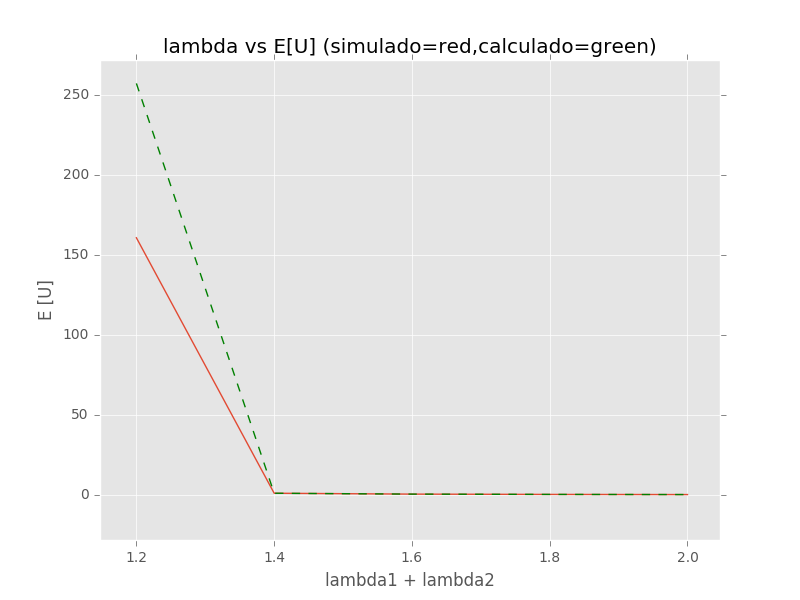
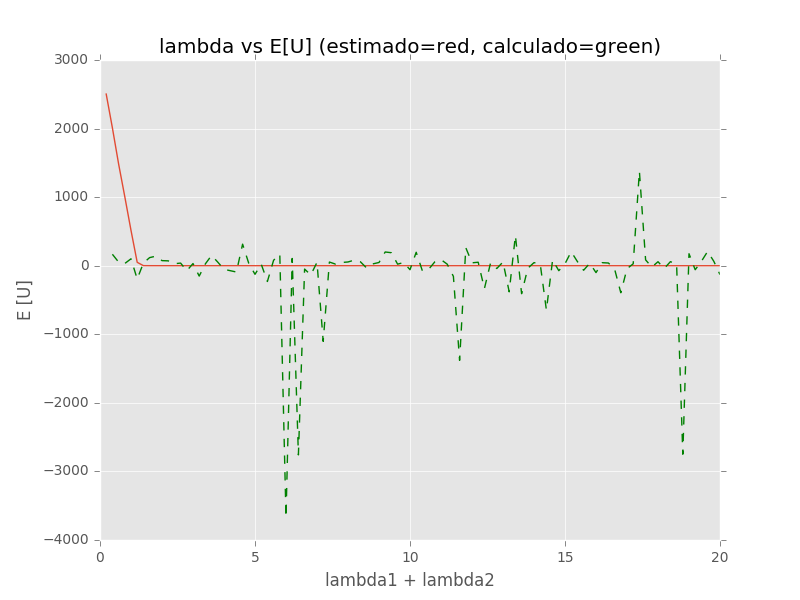
Plotting E[U] values vs lambda

diff --git a/01/exe01.py b/01/exe01.py
@@ -12,23 +12,25 @@ import csv
 
 ### General values ----------------------------------------
 # Seed to start simulation
-seedVal = 99998
+seedVal = 123456
 # Time spended to attend a Customer (M/G/1 - fixed time)
 serviceTime = [0.1, 0.2, 0.3, 0.4, 0.5]
 # Maximum simulation time
 maxTime = float("inf")
 # How many time repeat simulation?
-numberOfSim = 1
+numberOfSim = 100
 # [[customerName, arrival time, time in queue, time been served, total time, end time]]
 customersData = []
+customers1Data = []
+customers2Data = []
 
 ### Customer one ------------------------------------------
-lamb1 = 1.0		# rate of Customer one
-NCustomer1 = 500000 	# Number of Customers type one
+#lamb1 = 1.0		# rate of Customer one
+NCustomer1 = 10000 	# Number of Customers type one
 priority1 = 0		# Priority number for Customer one
 ### Customer two ------------------------------------------
-lamb2 = 1.0		# rate of Customer two
-NCustomer2 = 500000		# Number of Customers type two
+#lamb2 = 1.0		# rate of Customer two
+NCustomer2 = 10000	# Number of Customers type two
 priority2 = 0 		# Priority number foR Customer two
 
 ###########################################################
@@ -41,7 +43,7 @@ class Source(Process):
     def generate(self, number, interval, typeOfClient, priority):
         for i in range(number):
             c = Customer(name="Customer%02d_%02d" % (typeOfClient, i,), sim=self.sim)
-            self.sim.activate(c, c.visit(timeInBank=serviceTime[randrange(0,len(serviceTime))], counter=self.sim.counter, P=priority))
+            self.sim.activate(c, c.visit(timeInBank=serviceTime[randrange(0, len(serviceTime))], counter=self.sim.counter, P=priority))
             t = expovariate(interval)
             yield hold, self, t
 
@@ -93,8 +95,16 @@ class BankModel(Simulation):
 ############################################################
 ## Experiment
 ############################################################
+# To get general information from a specific simulation
 bankreception = []
+
+# To iterate lambda value
+ilambda = 0.1
+
+# Array to hold information about variation of E[U]
+finalPlot = []
 for i in range(numberOfSim):
+    lamb1 = lamb2 = ilambda
     mg1 = BankModel()
     mg1.startCollection(when=maxTime, monitors=mg1.allMonitors)
     result = mg1.run(seedVal + i)
@@ -103,77 +113,84 @@ for i in range(numberOfSim):
     ############################################################
     ## Results
     ############################################################
-    customers1Data = []
-    customers2Data = []
 
-    # [[customer name, arrival time, queue length ,time in queue, time been served, total time, end time]]
-    name = 0
-    arrive = 1
-    queueLen = 2
-    wait = 3
-    timeInBank = 4
-    totalTime = 5
-    finished = 6
     # Separating Customers1 and Customers2
     for i in range(len(customersData)):
-        if customersData[i][name].startswith("Customer01"):
+        if customersData[i][0].startswith("Customer01"):
             customers1Data.append(customersData[i])
         else:
             customers2Data.append(customersData[i])
 
-    # Removing names to calculate Variances e Means
-    for i in range(len(customersData)):
-        customersData[i].pop(name)
-   
-    for i in range(len(customers1Data)):
-        customers1Data[i].pop(name)
+    # Organizing data to numPy array
+    customersData = np.array(customersData)
+    customers1Data = np.array(customers1Data)
+    customers2Data = np.array(customers2Data)
+    customersDataNoNames = customersData[:, 1:].astype(float)
+    customers1DataNoNames = customers1Data[:, 1:].astype(float)
+    customers2DataNoNames = customers2Data[:, 1:].astype(float)
 
-    for i in range(len(customers2Data)):
-        customers2Data[i].pop(name)
+    # To help index
+    # [[arrival time, queue length ,time in queue, time been served, total time, end time]]
+    arrive = 0
+    queueLen = 1
+    wait = 2
+    timeInBank = 3
+    totalTime = 4
+    finished = 5
 
-    avgs = np.mean(customersData, axis=0)
-    variances = np.var(customersData, axis=0)
-    #print(avgs)
-    #print(variances)
-    sumAllValues = np.sum(customersData, axis=0)
-    sumAllValuesCustomer1 = np.sum(customers1Data, axis=0)
-    sumAllValuesCustomer2 = np.sum(customers2Data, axis=0)
+    # Usefull informations
+    avgs = np.mean(customersDataNoNames, axis=0)
+    variances = np.var(customersDataNoNames, axis=0)
+    sumAllValues = np.sum(customersDataNoNames, axis=0)
+    sumAllValuesCustomer1 = np.sum(customers1DataNoNames, axis=0)
+    sumAllValuesCustomer2 = np.sum(customers2DataNoNames, axis=0)
+
     # End of Simulation in minutes
     endOfSim = bankreception[0][3]
+
     # E[X_r] = E[X^2] / 2*E[X]. With E[X^2] = Var(X) + (E[X])^2
-    expResidualTime = (variances[timeInBank-2] + (avgs[timeInBank-2] ** 2)) / (2.0 * avgs[timeInBank-2])
+    expResidualTime = (variances[timeInBank] + (avgs[timeInBank] ** 2)) / (2.0 * avgs[timeInBank])
+
     # pendingService hold the E[U] calculated by simulation
-    pendingService = avgs[wait-2]
-    mi = 1.0 / avgs[timeInBank-2]
-    rho = sumAllValues[timeInBank-2] / endOfSim
-    rho1 = sumAllValuesCustomer1[timeInBank-2] / endOfSim
-    rho2 = sumAllValuesCustomer2[timeInBank-2] / endOfSim
+    pendingService = avgs[wait]
+
+    # mu, rho etc
+    mi = 1.0 / avgs[timeInBank]
+    rho = sumAllValues[timeInBank] / endOfSim
+    rho1 = sumAllValuesCustomer1[timeInBank] / endOfSim
+    rho2 = sumAllValuesCustomer2[timeInBank] / endOfSim
     pendingServiceCalc = rho * expResidualTime / (1.0 - rho)
+
+    finalPlot.append([lamb1, lamb2, lamb1+lamb2, pendingService, pendingServiceCalc])
 
     ############################################################
     ## Prints
     ############################################################
+    ####### Questao 1
+    print("###### Questao 1 #######\n")
     print("###### Informacoes gerais #########")
     print("X => v.a que mede o tempo de atendimento de um cliente")
-    print("Simulacao finalizada no minuto: %0.8f" %(endOfSim))
-    print("Numero total de clientes atendidos: %d"%(len(customersData)))
-    print("Lambda1 = %0.8f; Lambda2 = %0.8f; Lambda = %0.8f" %(lamb1,lamb2,lamb1+lamb2))
-    print("Mi = %0.8f" %(mi))
-    print("E[X] = %0.8f" %(avgs[timeInBank-2]))
-    print("Var(X) = %0.8f "%(variances[timeInBank-2]))
-    print("E[X_r] = %0.8f "%(expResidualTime))
+    print("Simulacao finalizada no minuto: %0.8f" % (endOfSim))
+    print("Numero total de clientes atendidos: %d"% (len(customersData)))
+    print("Lambda1 = %0.8f; Lambda2 = %0.8f; Lambda = %0.8f" % (lamb1, lamb2, lamb1+lamb2))
+    print("Mi = %0.8f" % (mi))
+    print("E[X] = %0.8f" % (avgs[timeInBank]))
+    print("Var(X) = %0.8f " % (variances[timeInBank]))
+    print("E[X_r] = %0.8f " % (expResidualTime))
     print("(sim) Rho1 = %0.8f" % (rho1))
     print("(sim) Rho2 = %0.8f" % (rho2))
-    print("(sim) Rho = %0.8f"%(rho))
-
-    ####### Questao 1
-    print("\n\n###### Questao 1 #######")
+    print("(sim) Rho = %0.8f" % (rho))
+    print("\n##### Resposta #######")
     print("(sim) E[U] = %0.8f"%(pendingService))
     print("(calc) E[U] = %0.8f"%(pendingServiceCalc))
-    ######## Questao 2
-    print("\n\n###### Questao 2 #######")
+    print("\n\n")
 
-"""with open("traces.csv", "w") as f:
+    # Clear customersData to the next iteration
+    customersData = []
+    customers1Data = []
+    customers2Data = []
+    ilambda += 0.1
+
+with open("traces1.1.csv", "w") as f:
     writer = csv.writer(f)
-    writer.writerows(customersData)"""
-
+    writer.writerows(finalPlot)

diff --git a/01/plot.py b/01/plot.py
@@ -4,11 +4,11 @@ import numpy as np
 
 style.use('ggplot')
 
-l1,l2,l1l2,sim,calc = np.loadtxt('traces1.1.csv',unpack=True,delimiter=',')
+l1, l2, l1l2, sim, calc = np.loadtxt('traces1.1.csv', unpack=True, delimiter=',')
 
-plt.plot(l1l2,sim)
-plt.plot(l1l2,calc,color='g', linestyle='--')
-plt.title('lambda vs E[U] (simulado=red,calculado=green)')
+plt.plot(l1l2, sim)
+plt.plot(l1l2, calc, color='g', linestyle='--')
+plt.title('lambda vs E[U] (estimado=red, calculado=green)')
 plt.ylabel('E [U]')
 plt.xlabel('lambda1 + lambda2')
 
